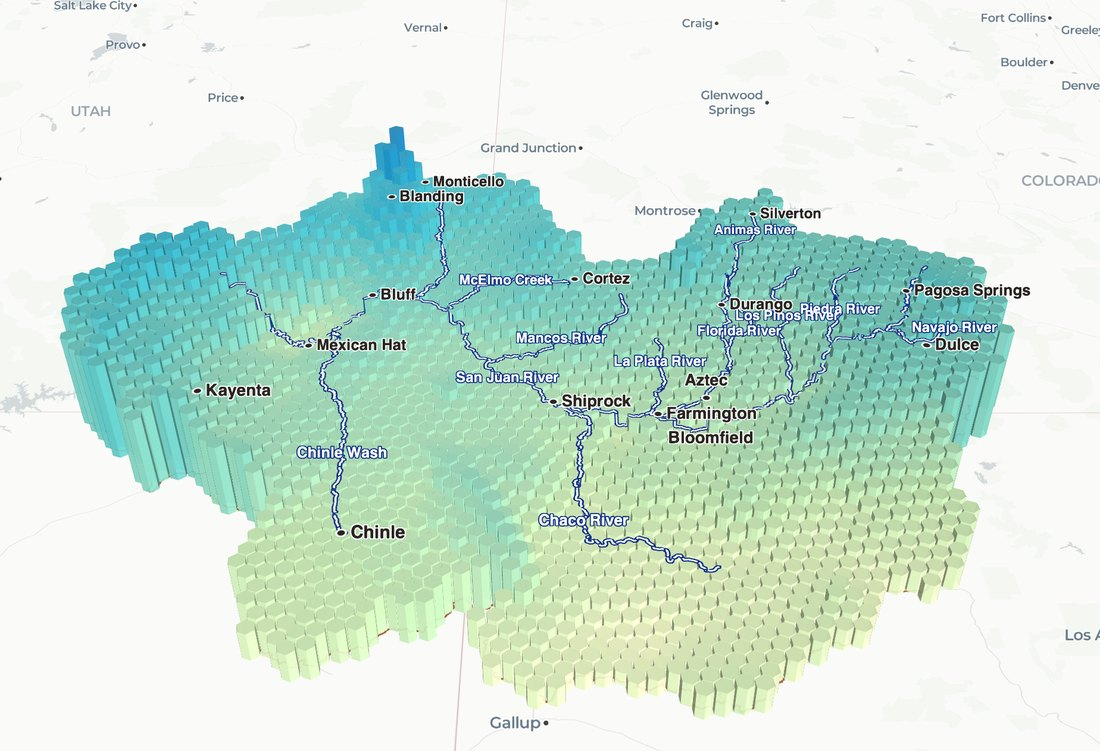
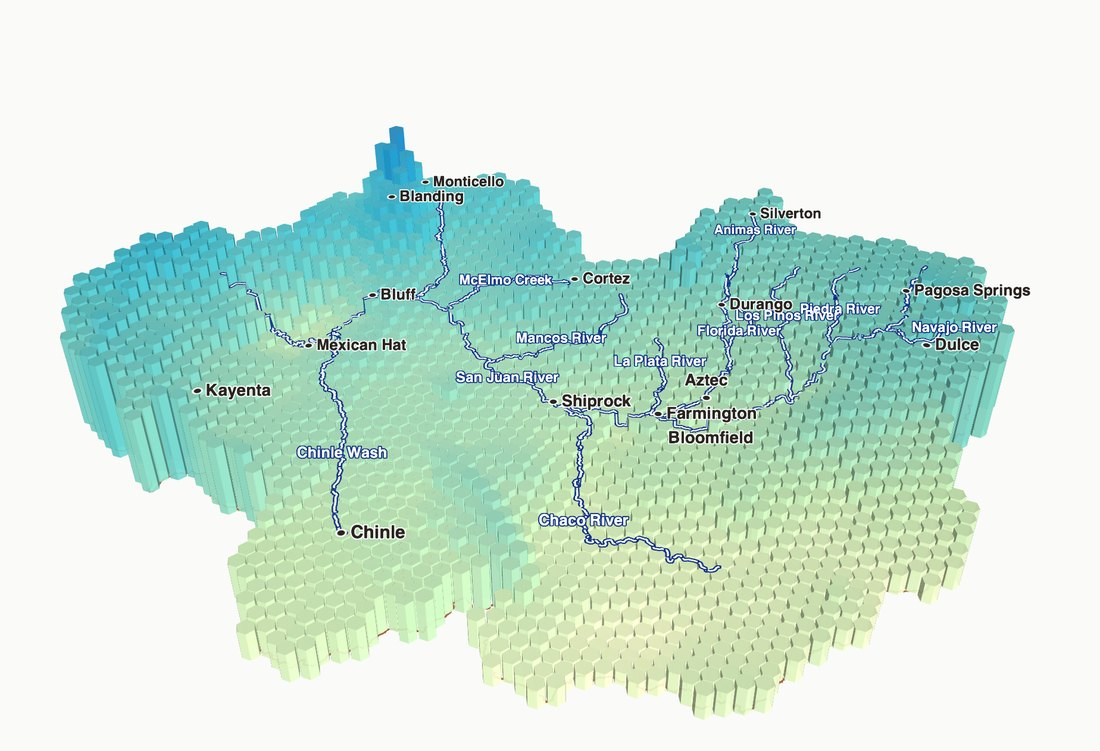
Feature PRISM Storm Analysis: home page ring and Select projects; How I work
- Home ring: PRISM Storm Analysis in place of HLS VI Pipeline (still in the BioSCape
  section), with a square thumbnail of the San Juan Mountains columns (new `thumb` field)
- Select projects: PRISM Storm Analysis in place of Stacked Terrain Builder (still on
  the ring and How I work)
- How I work: PRISM in "Check it against a reference" and in the flow diagram, from
  climate grids and gauges to hydrologists and water managers
- What I do: Remote sensing & climate pipelines, with PRISM climate grids
- Hex map: ?bare hides towns and rivers; capture_stills.py also writes hex-thumb.jpg

diff --git a/src/data/pitch.ts b/src/data/pitch.ts
@@ -14,8 +14,8 @@ export const workedWith = [
 
 export const services = [
   {
-    title: 'Remote sensing pipelines',
-    text: 'Landsat, Sentinel-2, HLS, NAIP, and beyond, from download to analysis-ready products, reproducible and documented.',
+    title: 'Remote sensing & climate pipelines',
+    text: 'Landsat, Sentinel-2, HLS, NAIP, PRISM climate grids, and beyond, from download to analysis-ready products, reproducible and documented.',
   },
   {
     title: 'Web maps & dashboards',
@@ -44,9 +44,9 @@ export const flagship = [
     result: 'Centimeter drone surveys of a flood, explorable in 3D in any browser.',
   },
   {
-    id: 'qgis-stacked-terrain-builder',
-    label: 'GIS plugin · Cartography',
-    result: 'Turns any elevation model into layered, paper-cut terrain art, natively in QGIS.',
+    id: 'prism-storm-analysis',
+    label: 'Data analysis · 3D web map',
+    result: 'Totals a storm over any US watershed, then checks it against rain gauges, streamflow, and snowpack.',
   },
 ];
 

diff --git a/dev/h3/template.html b/dev/h3/template.html
@@ -227,7 +227,9 @@
   }
   // One entry per river reach, each a path of [lng, lat, hex index].
   const riverPaths = data.rivers.flatMap(([name, reaches]) => reaches.map(path => ({ name, path })));
-  const show = { towns: true, rivers: true };
+  // ?bare hides towns and rivers, e.g. for a small thumbnail.
+  const bare = new URLSearchParams(location.search).has('bare');
+  const show = { towns: !bare, rivers: !bare };
   // Town names sit right of the dot, or above or below it where the config moves them off a neighbor (t[4]).
   const PLACE = {
     right: { anchor: 'start', baseline: 'center', offset: [7, 0] },

diff --git a/public/viz/san-juan-storm-h3/index.html b/public/viz/san-juan-storm-h3/index.html
@@ -227,7 +227,9 @@
   }
   // One entry per river reach, each a path of [lng, lat, hex index].
   const riverPaths = data.rivers.flatMap(([name, reaches]) => reaches.map(path => ({ name, path })));
-  const show = { towns: true, rivers: true };
+  // ?bare hides towns and rivers, e.g. for a small thumbnail.
+  const bare = new URLSearchParams(location.search).has('bare');
+  const show = { towns: !bare, rivers: !bare };
   // Town names sit right of the dot, or above or below it where the config moves them off a neighbor (t[4]).
   const PLACE = {
     right: { anchor: 'start', baseline: 'center', offset: [7, 0] },

diff --git a/src/content.config.ts b/src/content.config.ts
@@ -30,6 +30,8 @@ const projects = defineCollection({
       stack: z.array(z.string()),
       cover: image().optional(),
       coverAlt: z.string().optional(),
+      // Optional square image for small round thumbnails (the home page ring) when the cover crops badly.
+      thumb: image().optional(),
       // Optional caption shown under the main image on the project page.
       coverCaption: z.string().optional(),
       // By default the main image is left out of the Maps section to avoid showing it twice.

diff --git a/dev/h3/capture_stills.py b/dev/h3/capture_stills.py
@@ -1,7 +1,7 @@
 """Capture still images of a storm hex map for its project page, with headless Chrome (WebGL through SwiftShader).
 
-Writes <assets>/hex-storm-total.jpg (the card image) and one hex-<mon><dd>.jpg per day in the config's days_shown,
-all with the panel hidden (?still). The dev server must be running (astro dev --background).
+Writes <assets>/hex-storm-total.jpg (the card image), hex-thumb.jpg (a square for the home page ring), and one
+hex-<mon><dd>.jpg per day in the config's days_shown, all with the panel hidden (?still). The dev server must be running (astro dev --background).
 Usage: python3 dev/h3/capture_stills.py dev/h3/maps/<map>.json src/assets/projects/<project> [http://localhost:4321]
 """
 import json, subprocess, sys, tempfile
@@ -25,6 +25,12 @@ with tempfile.TemporaryDirectory() as tmp:
     # Crops leave room above the basin for the tallest columns and drop the empty map around it.
     im, (w, h) = shot("", f"{tmp}/total.png")
     im.crop((int(w * 0.11), int(h * 0.10), int(w * 0.88), int(h * 0.86))).save(assets / "hex-storm-total.jpg", quality=88)
+    # A square of the wettest corner, without towns or rivers, for small round thumbnails (the home page ring).
+    # thumb_center in the config is its center as fractions of the frame; the square is 42% of the frame height.
+    im, (w, h) = shot("&bare", f"{tmp}/bare.png")
+    cx, cy = cfg.get("thumb_center", [0.5, 0.45]); half = int(0.21 * h)
+    im.crop((int(cx * w) - half, int(cy * h) - half, int(cx * w) + half, int(cy * h) + half)).resize(
+        (640, 640), Image.LANCZOS).save(assets / "hex-thumb.jpg", quality=88)
     for d in cfg.get("days_shown", days):
         im, (w, h) = shot(f"&day={days.index(d)}", f"{tmp}/{d}.png")
         im = im.crop((int(w * 0.11), int(h * 0.03), int(w * 0.88), int(h * 0.86)))
@@ -32,4 +38,4 @@ with tempfile.TemporaryDirectory() as tmp:
         name = f"hex-{['jan','feb','mar','apr','may','jun','jul','aug','sep','oct','nov','dec'][int(d[5:7]) - 1]}{d[8:]}.jpg"
         im.save(assets / name, quality=86)
         print("wrote", assets / name)
-print("wrote", assets / "hex-storm-total.jpg")
+print("wrote", assets / "hex-storm-total.jpg", "and", assets / "hex-thumb.jpg")

diff --git a/src/content/projects/prism-storm-analysis.md b/src/content/projects/prism-storm-analysis.md
@@ -14,6 +14,7 @@ credit: "Precipitation, temperature, and 1991–2020 normals from the PRISM Clim
 skills: [pipelines, cartography, web-mapping, docs]
 stack: [Python, rasterio, GeoPandas, NumPy, NetCDF CF-1.10, PyQGIS, QML styling, H3, deck.gl, pytest, GitHub Actions, PRISM 800 m]
 cover: ../../assets/projects/prism-storm-analysis/hex-storm-total.jpg
+thumb: ../../assets/projects/prism-storm-analysis/hex-thumb.jpg
 coverAlt: "The San Juan River basin as extruded hexagons, taller and darker blue where more precipitation fell, highest along the San Juan Mountains in the northeast"
 coverEmbed:
   src: /viz/san-juan-storm-h3/index.html
